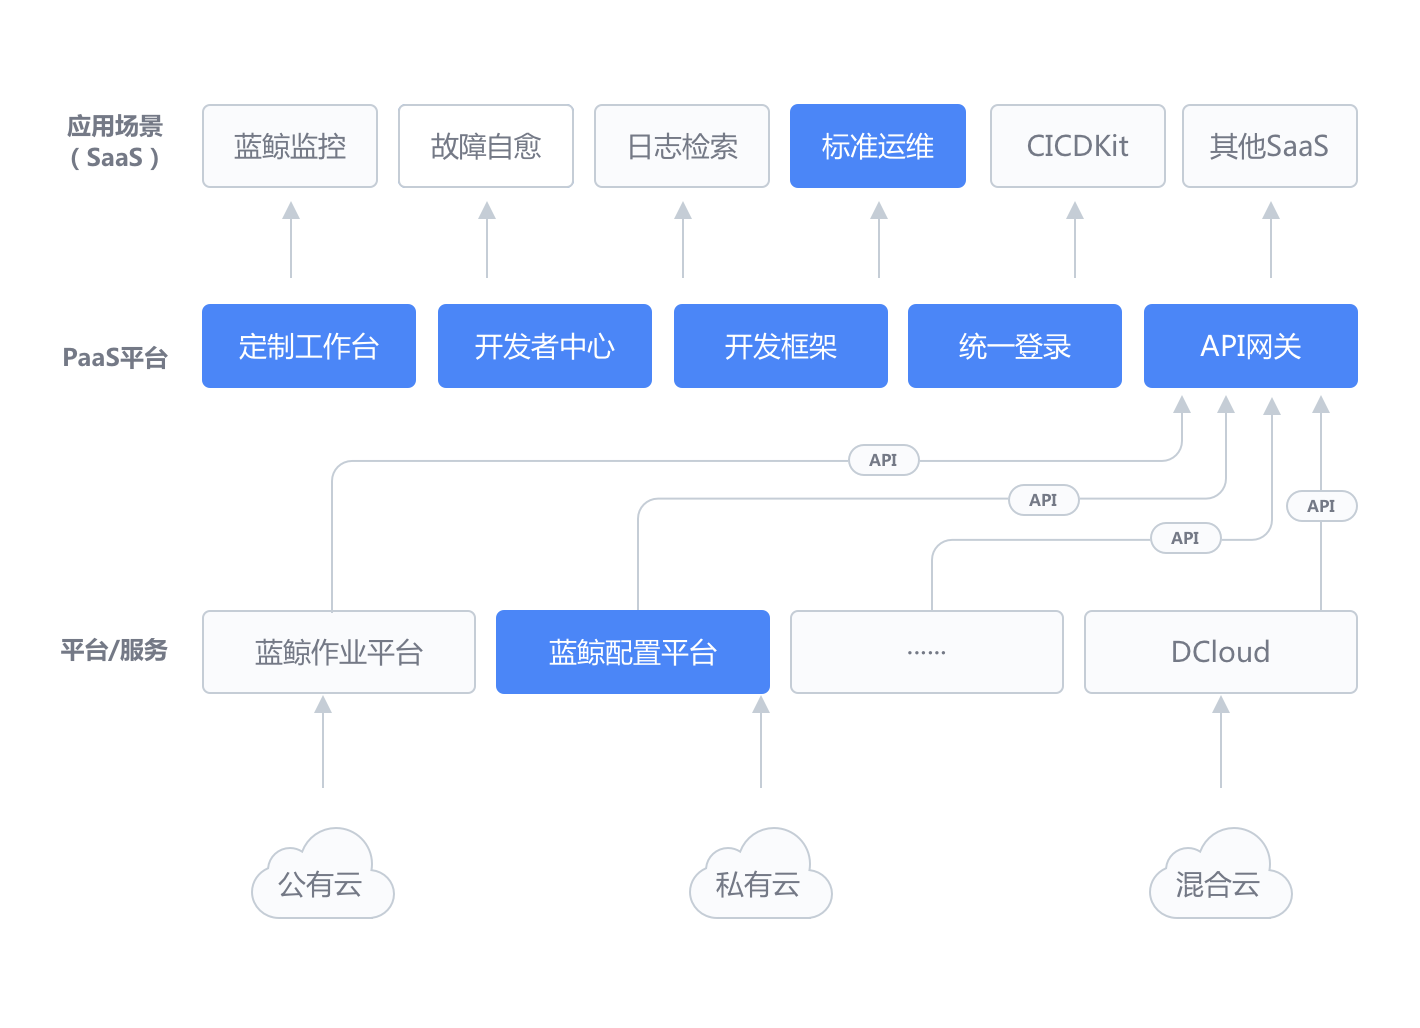
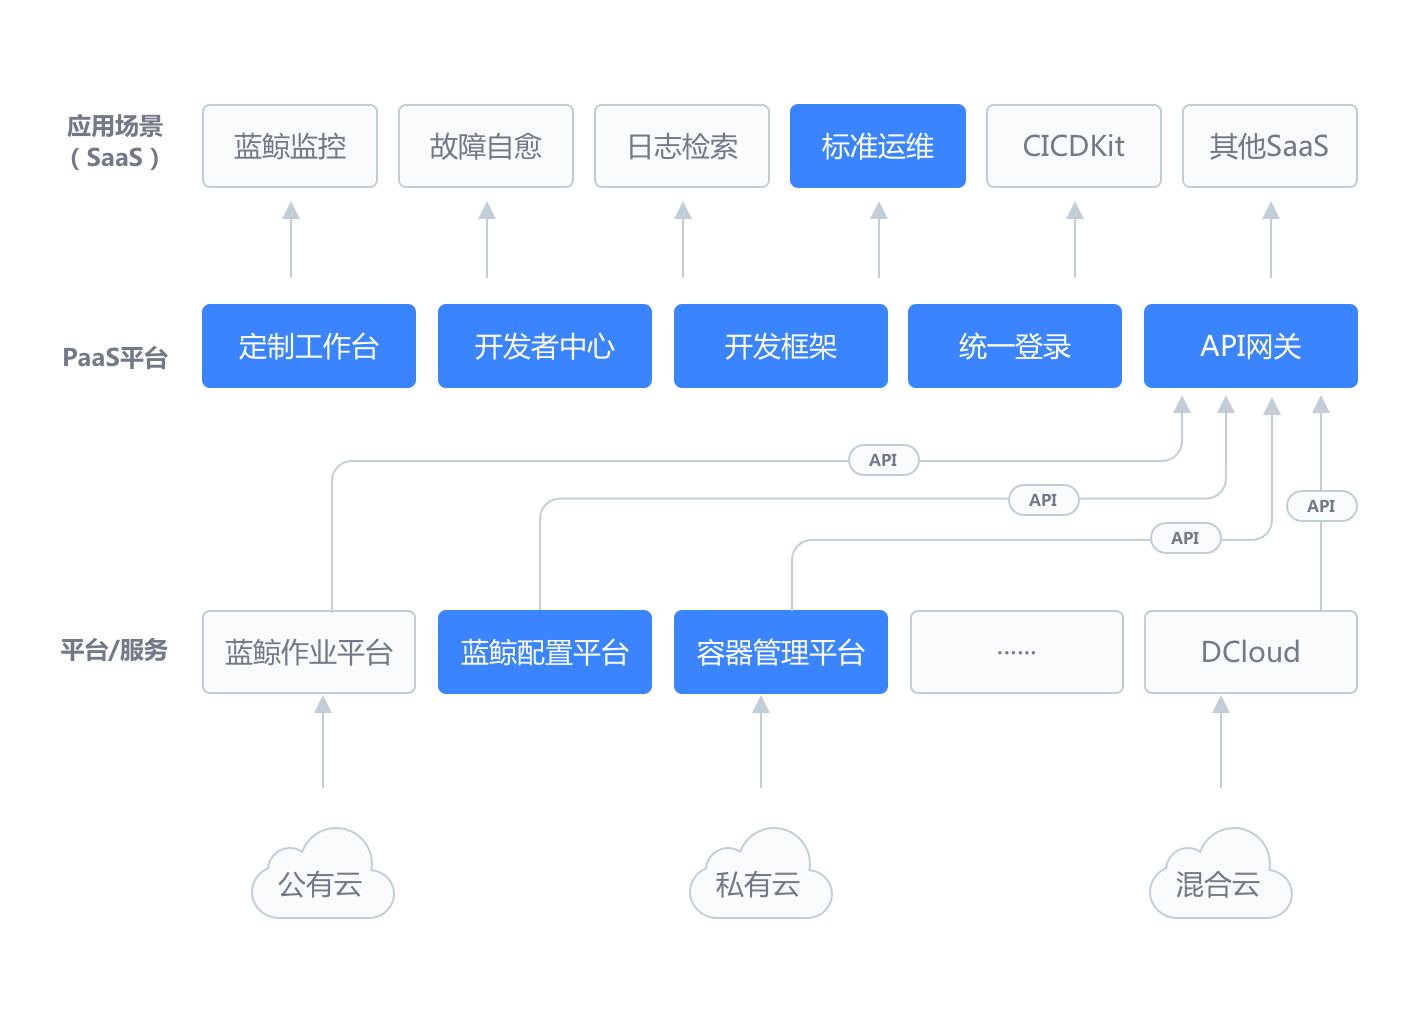
docs: wiki开源体系图更新 #751

diff --git a/docs/wiki/home.md b/docs/wiki/home.md
@@ -48,6 +48,7 @@
 4、标准运维必须跟整个体系配合使用。
 
 开源产品链接  
-配置平台：https://github.com/Tencent/bk-cmdb  
-PaaS平台：https://github.com/Tencent/bk-PaaS  
 标准运维：https://github.com/Tencent/bk-sops  
+PaaS平台：https://github.com/Tencent/bk-PaaS  
+配置平台：https://github.com/Tencent/bk-cmdb  
+容器管理平台：https://github.com/Tencent/bk-bcs  
